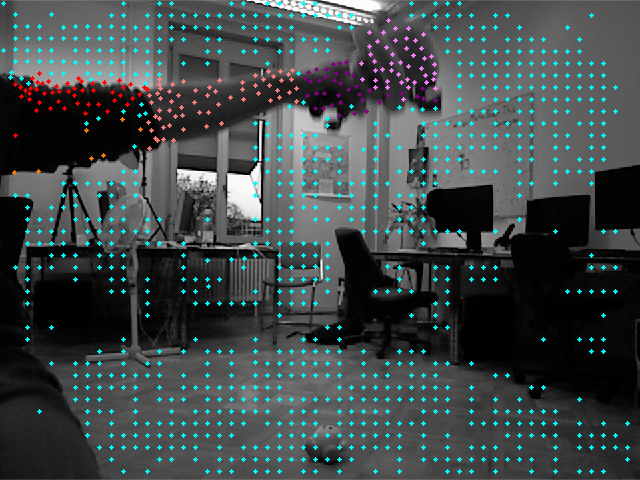
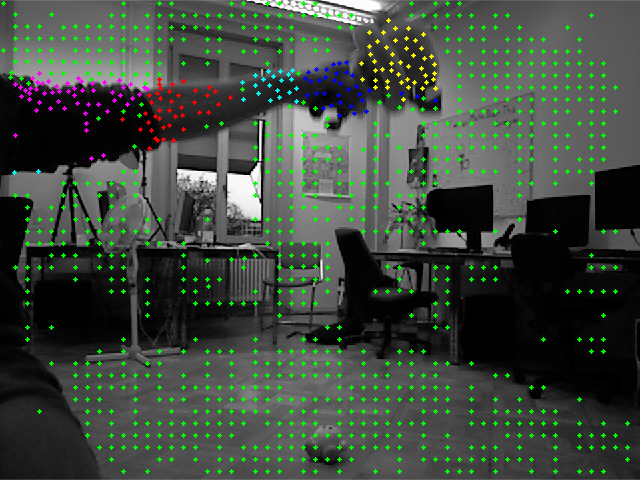
Updated wh1 experiments

diff --git a/Document/Source/Chapters/chapter5.tex b/Document/Source/Chapters/chapter5.tex
@@ -903,9 +903,17 @@ avgs
    \includegraphics[width=0.47\linewidth] {evaluation/wh1/segmentations/ldof_pd_sc}
    \label{fig:wh1_performance_a}
 }
+\subfigure[PD MC]{
+   \includegraphics[width=0.47\linewidth] {evaluation/wh1/segmentations/ldof_pd_mc}
+   \label{fig:wh1_performance_b}
+}
+\subfigure[PED SC]{
+   \includegraphics[width=0.47\linewidth] {evaluation/wh1/segmentations/ldof_ped_sc}
+   \label{fig:wh1_performance_c}
+}
 \subfigure[PED MC]{
    \includegraphics[width=0.47\linewidth] {evaluation/wh1/segmentations/ldof_ped_mc}
-   \label{fig:wh1_performance_b}
+   \label{fig:wh1_performance_d}
 }
 \end{center}
 \caption[Segmentations Waving Hand]{foobar}
@@ -915,12 +923,14 @@ avgs
 
 \begin{table}[H]
 \centering
-\begin{tabular}{|c|c|c|c|c|}
+\begin{tabular}{|c|c|c|c|}
 \hline
-\multicolumn{5}{|c|}{Performance Waving Hand dataset}                        \\ \hline
-Method & \textbf{Density} & \textbf{Precision} & \textbf{Recall} & \textbf{F1 Score} \\ \hline
-PD SC & 0.58 & 69.67\%   & 58.66\%     & 63.69\%  \\ \hline
-PED MC & 0.36 & 71.60\%   & 70.52\%     & 71.06\%  \\ \hline              
+\multicolumn{4}{|c|}{Performance Waving Hand dataset}                        \\ \hline
+Method & \textbf{Precision} & \textbf{Recall} & \textbf{F1 Score} \\ \hline
+PD SC & 69.67\%   & 58.66\%     & 63.69\%  \\ \hline
+PD MC & 55.16\%   & 68.076\%     & 60.94\%  \\ \hline
+PED SC & 75.40\%   & 62.90\%     & 68.58\%  \\ \hline
+PED MC & 71.47\%   & 67.39\%     & 69.37\%  \\ \hline               
 \end{tabular}
 \caption[Cars Varying $\lambda$]{My caption}
 \label{tab:wh1_performance}
